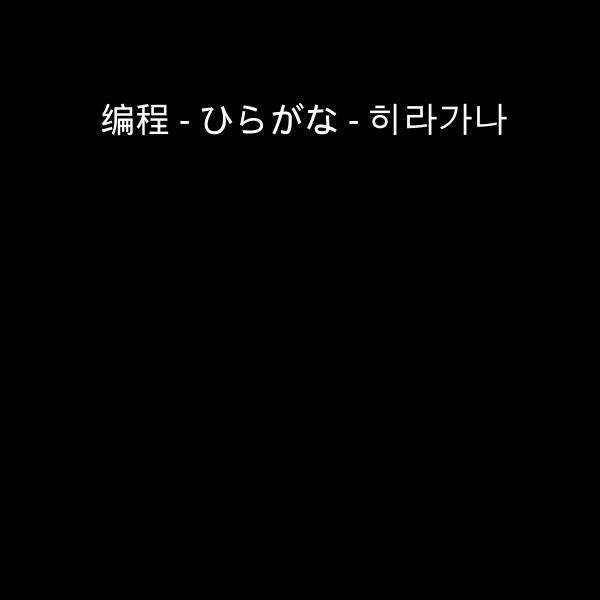
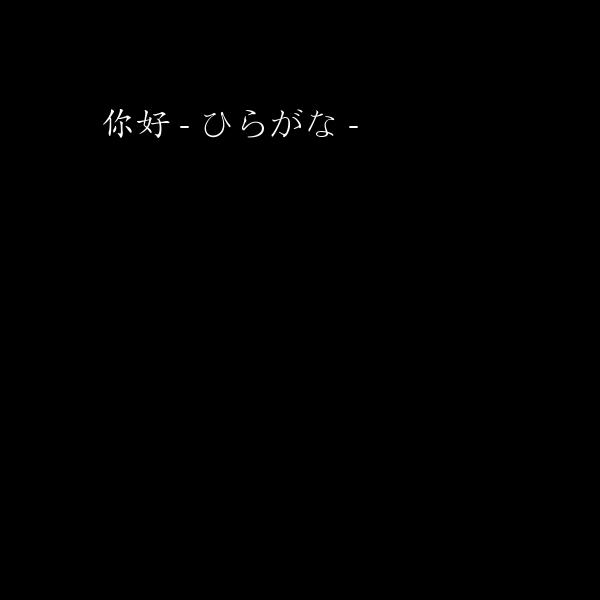
Add function to write image to mp3

Changed region(s): [[0.6, 0.15, 0.84, 0.24], [0.33, 0.18, 0.57, 0.24], [0.15, 0.15, 0.3, 0.24]]

diff --git a/MyPythonPrograms/Mp3NameAndTagFactory4AsciiOnly/Mp3NameAndTagFactory4AsciiOnly.py b/MyPythonPrograms/Mp3NameAndTagFactory4AsciiOnly/Mp3NameAndTagFactory4AsciiOnly.py
@@ -1,17 +1,23 @@
-from PIL import Image, ImageDraw, ImageFont
 import os
 
-inputPath = 'FactoryIn'
+import eyed3
+from PIL import Image, ImageDraw, ImageFont
 
 
 def main():
     img = drawBlackEmpty()
-    text = u"编程 - ひらがな - 히라가나"
+    text = u"你好 - ひらがな - 히라가나"
     writeTextOnImage(img, text)
     saveImage(img, 'hello')
+    inputPath = 'FactoryIn'
+    imageCachePath = 'ImageCache'
 
     fileNames = readFileNames(inputPath)
-    print(fileNames)
+    for name in fileNames:
+        audiofile = eyed3.load(inputPath + '\\' + name)
+        imagedata = open("hello.jpg", "rb").read()
+        audiofile.tag.images.set(3, imagedata, "image/jpeg", u"you can put a description here")
+        audiofile.tag.save()
 
 
 def drawBlackEmpty():
@@ -20,7 +26,10 @@ def drawBlackEmpty():
 
 def writeTextOnImage(img, text):
     font_size = 35
-    unicode_font = ImageFont.truetype("wqy-microhei.ttc", font_size)
+    #   for linux
+    # unicode_font = ImageFont.truetype("wqy-microhei.ttc", font_size)
+    #   目前不支持韩文
+    unicode_font = ImageFont.truetype("STKAITI.TTF", font_size)
     ImageDraw.Draw(img).text((100, 100), text, font=unicode_font)
 
 
